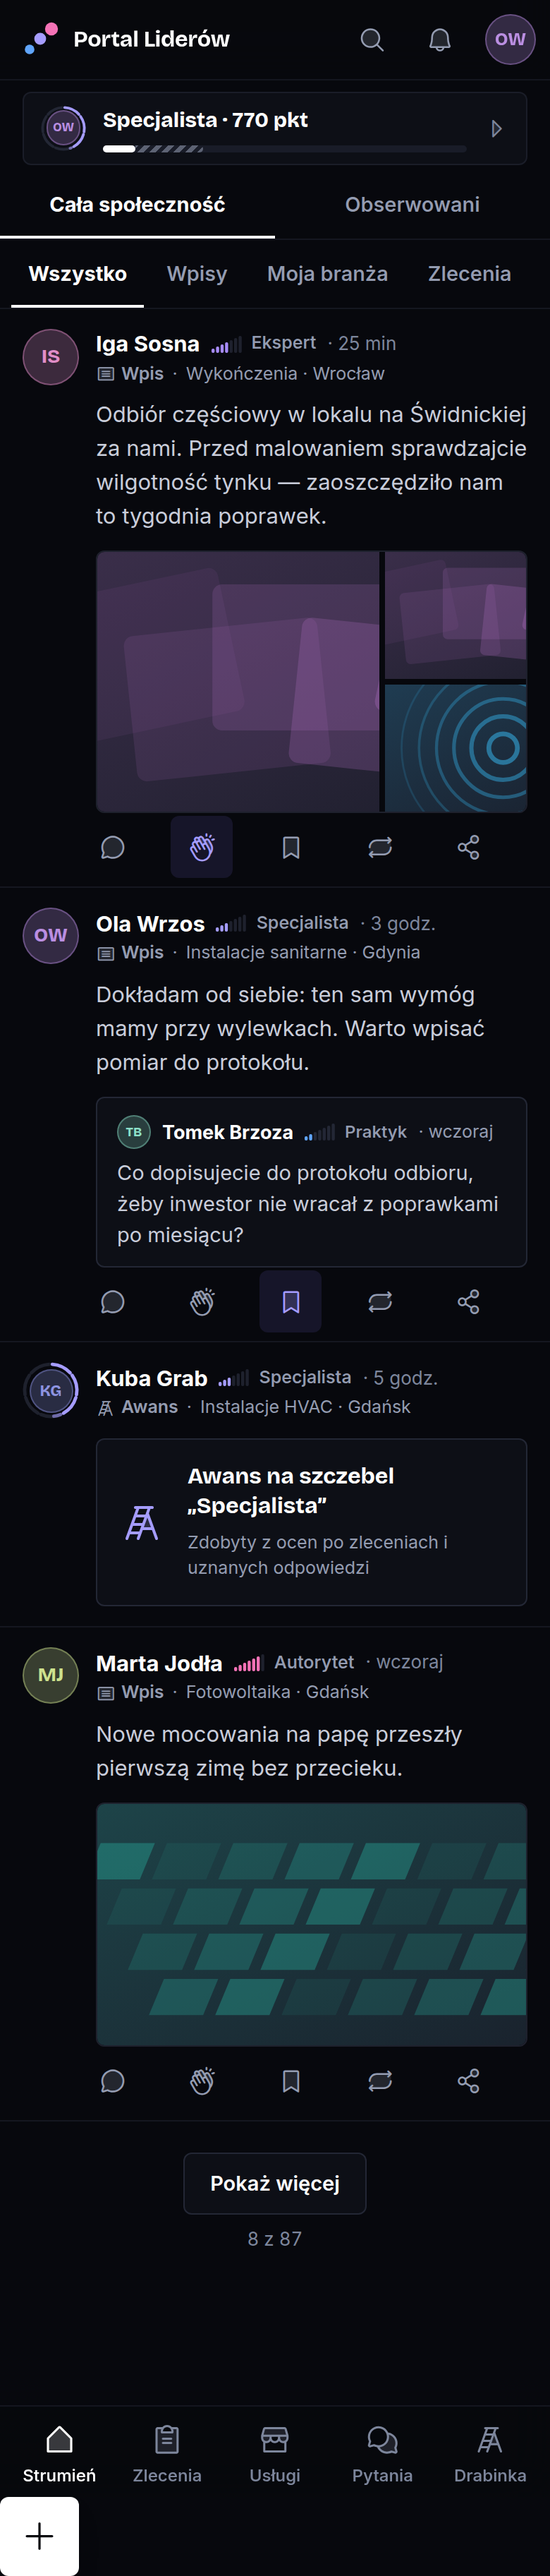
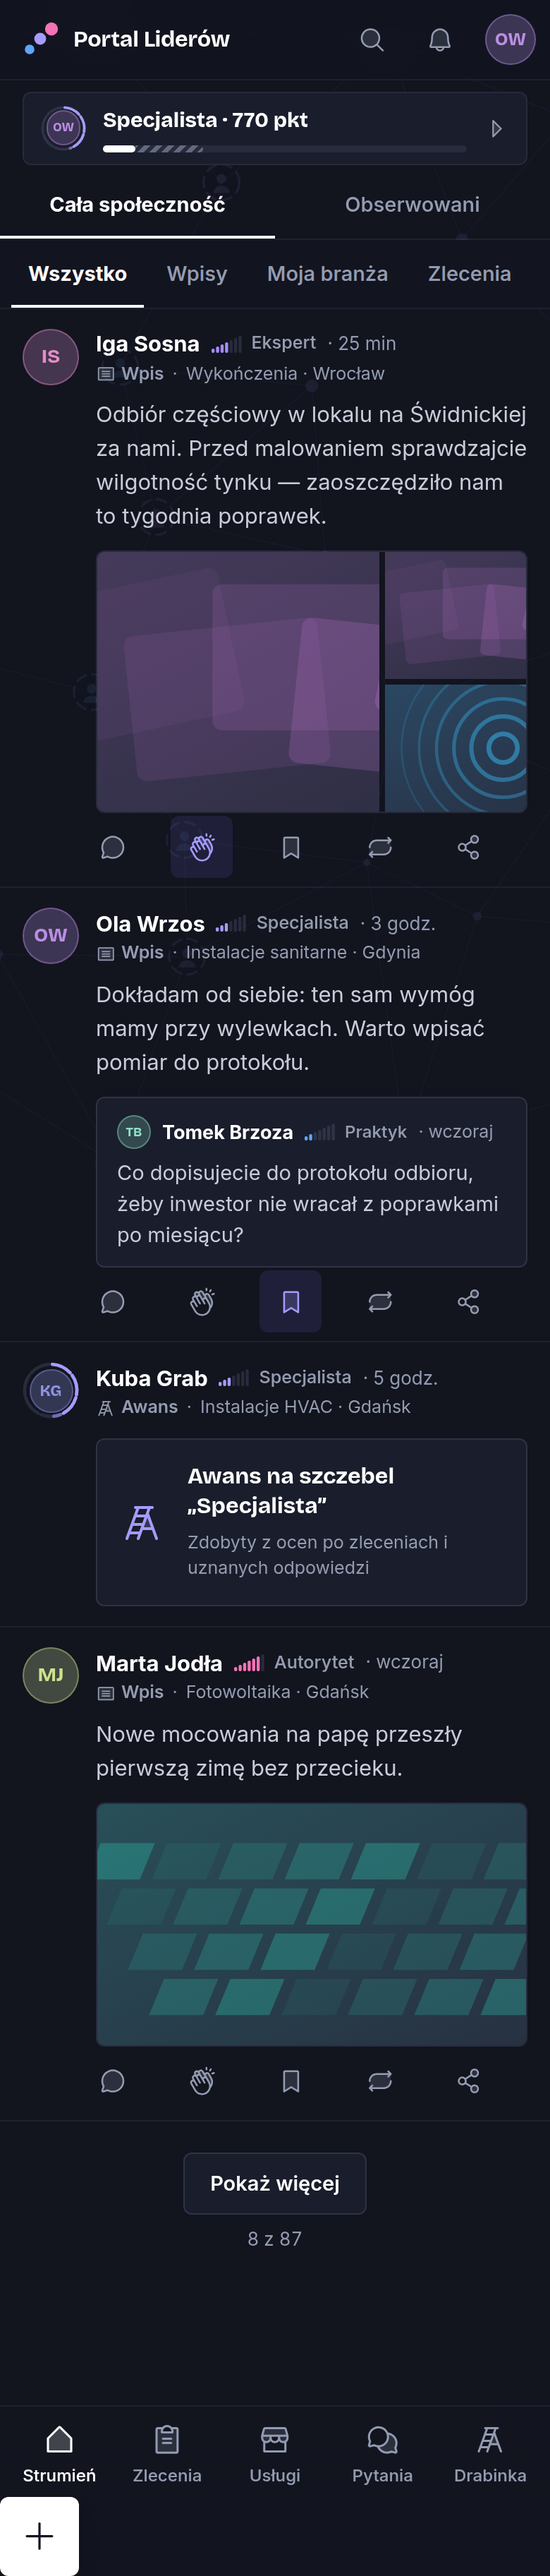
docs(v17): makieta — jaśniejsze tło z przezroczystą siecią Liderów (Maciej 26.11), reszta makiety braków zaakceptowana słowami „Reszta jest dobra”

diff --git a/docs/redesign-propozycje/v17/pro/tlo.js b/docs/redesign-propozycje/v17/pro/tlo.js
@@ -1,0 +1,28 @@
+// Tło „sieć Liderów” (Maciej 26.11: „jaśniejsze z lekką siecią liderów przezroczystą”). Własny SVG, bez sieci i bez animacji.
+// Stałe ziarno → zrzuty powtarzalne. Węzły w kolorach szczebli; co ósmy ma pierścień jak awatar Lidera. L7 (ciepły) nie występuje:
+// „ciepły = zapracowane” nie może być dekoracją.
+(() => {
+  const W = 1600, H = 1000, ILE = 64;
+  let s = 29;
+  const r = () => (s = (s * 16807) % 2147483647) / 2147483647;
+  const kol = 8, rz = ILE / kol;
+  const p = Array.from({ length: ILE }, (_, i) => ({
+    x: ((i % kol) + 0.15 + r() * 0.7) * (W / kol),
+    y: (Math.floor(i / kol) + 0.15 + r() * 0.7) * (H / rz),
+    l: 2 + Math.floor(r() * 5),
+    r: 2.5 + r() * 3,
+  }));
+  const linie = new Set();
+  p.forEach((a, i) =>
+    p.map((b, j) => [Math.hypot(a.x - b.x, a.y - b.y), j]).sort((x, y) => x[0] - y[0]).slice(1, 4)
+      .forEach(([, j]) => linie.add(i < j ? `${i}-${j}` : `${j}-${i}`)));
+  const l = [...linie].map((k) => { const [a, b] = k.split('-').map((i) => p[i]); return `<line x1="${a.x.toFixed(0)}" y1="${a.y.toFixed(0)}" x2="${b.x.toFixed(0)}" y2="${b.y.toFixed(0)}"/>`; }).join('');
+  const w = p.map((a, i) => {
+    const c = `var(--level-${a.l})`, x = a.x.toFixed(0), y = a.y.toFixed(0);
+    return i % 8 === 3
+      ? `<circle cx="${x}" cy="${y}" r="15" style="fill:var(--bg);stroke:${c}" stroke-width="2" stroke-dasharray="10 4"/><circle cx="${x}" cy="${y - 3}" r="4" style="fill:${c}"/><path d="M${+x - 7} ${+y + 9}a7 6 0 0 1 14 0" style="fill:${c}"/>`
+      : `<circle cx="${x}" cy="${y}" r="${a.r.toFixed(1)}" style="fill:${c}"/>`;
+  }).join('');
+  const svg = `<svg class="tlo-siec" viewBox="0 0 ${W} ${H}" preserveAspectRatio="xMidYMid slice" aria-hidden="true"><g class="linie">${l}</g><g class="wezly">${w}</g></svg>`;
+  window.TloSiec = () => document.body.insertAdjacentHTML('afterbegin', svg);
+})();

diff --git a/docs/redesign-propozycje/v17/pro/tlo.css b/docs/redesign-propozycje/v17/pro/tlo.css
@@ -1,0 +1,19 @@
+/* Jaśniejsze tło + przezroczysta sieć Liderów. Docelowo wspólne dla wszystkich ekranów V17. */
+:root { --bg: #12141f; --surface: #1a1d2b; --surface-2: #1f2231; --surface-3: #272b3d; --text-faint: #929bb1; }
+[data-theme='light'] { --bg: #fafaff; --surface: #ffffff; --surface-2: #f6f6fd; --surface-3: #eeeef8; --text-faint: #5f6678; }
+html { background: var(--bg); }
+body { background: transparent; }
+.tlo-siec { position: fixed; inset: 0; width: 100vw; height: 100vh; z-index: -1; pointer-events: none; }
+.tlo-siec .linie { stroke: var(--primary-500); stroke-width: 1; opacity: 0.22; }
+.tlo-siec .wezly { opacity: 0.38; }
+[data-theme='light'] .tlo-siec .linie { opacity: 0.2; }
+[data-theme='light'] .tlo-siec .wezly { opacity: 0.34; }
+/* Pod treścią sieć ledwo prześwituje — czytelność tekstu jest ważniejsza. */
+.rama > .kolumna { background: color-mix(in srgb, var(--bg) 82%, transparent); }
+.karta { background: color-mix(in srgb, var(--surface) 92%, transparent); }
+@media (max-width: 720px) {
+  .rama > .kolumna { background: color-mix(in srgb, var(--bg) 78%, transparent); }
+}
+/* Prawa kolumna: linie nie mogą przecinać drobnego tekstu. */
+.bok-lepki > .karta:not(.hero-dr), .bok-lepki > .tematy, .bok-lepki > .stopka { background: color-mix(in srgb, var(--bg) 88%, transparent); border-radius: var(--radius); }
+.bok-lepki > .hero-dr { background: var(--surface); }

diff --git a/docs/redesign-propozycje/v17/pro/braki.html b/docs/redesign-propozycje/v17/pro/braki.html
@@ -12,10 +12,12 @@
 <link rel="stylesheet" href="https://unpkg.com/@phosphor-icons/web@2.1.1/src/regular/style.css">
 <link rel="stylesheet" href="pro.css">
 <link rel="stylesheet" href="braki.css">
+<link rel="stylesheet" href="tlo.css">
 </head>
 <body>
 <script src="pro.js"></script>
 <script src="braki.js"></script>
-<script>Pro.braki();</script>
+<script src="tlo.js"></script>
+<script>Pro.braki();TloSiec();</script>
 </body>
 </html>

diff --git a/docs/redesign-propozycje/v17/pro/README.md b/docs/redesign-propozycje/v17/pro/README.md
@@ -90,3 +90,9 @@ Stany `?stan=dane|pisanie|offline|wiecej|pusty`; zrzuty `audyt/zrzuty/v17-braki-
 Poza makietą, do sprawdzenia przy kodzie: odnośniki z Drabinki do `/droga` i `/panel/punkty`, zgłoszenie/edycja/usunięcie
 wpisu (zostają na `/wpisy/[id]`), fokus i Esc w menu i kompozytorze.
 Zmiana wobec `pro.css`: w ciemnym motywie przycisk główny na `--primary-600` (kontrast AA).
+
+### Tło (Maciej 26.11)
+
+„Wolałbym inny kolor tła np. jaśniejsze z lekką siecią liderów przezroczystą. Reszta jest dobra” — `tlo.{js,css}`.
+Zastępuje w tym punkcie zasadę z 20.11 („tło czyste, bez siatki liderów”). Obowiązuje po akceptacji tła; wtedy dla wszystkich
+ekranów V17 (także P0 i P1).
